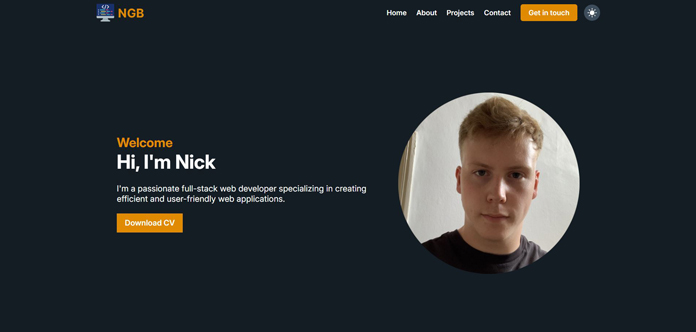
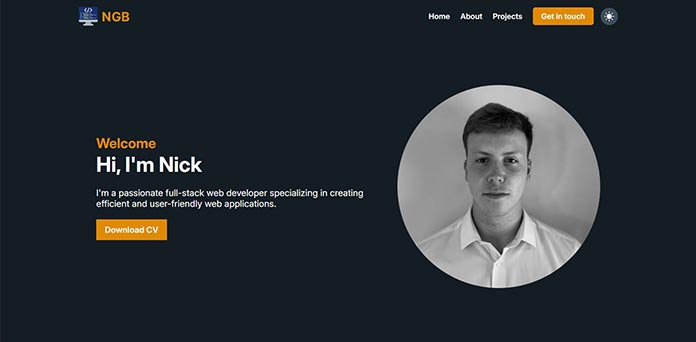
styling updates

diff --git a/client/src/pages/Project.jsx b/client/src/pages/Project.jsx
@@ -6,12 +6,17 @@ import { IoMdArrowRoundBack } from "react-icons/io";
 import { FaCode } from "react-icons/fa6";
 import { RiComputerLine } from "react-icons/ri";
 import * as detailComponents from "../components/projectDetails/detailComponents";
+import { useEffect } from 'react';
 
 const Project = () => {
   const { name } = useParams();
 
   const project = projectData.find(item => item.slug === name);
   const DetailComponent = detailComponents[project?.featureComponent];
+
+  useEffect(() => {
+    window.scrollTo(0, 0)
+  }, []);
 
   if (!project) {
     return <PageNotFound />;
@@ -97,6 +102,7 @@ const ProjectStyles = styled.div`
     gap: 1rem;
     align-items: center;
     margin-bottom: 1.5rem;
+    flex-wrap: wrap;
   }
 
   .tech-stack .tech {
@@ -139,6 +145,29 @@ const ProjectStyles = styled.div`
   .project-details img {
     margin-bottom: 1rem;
     border: 1px solid #ccc;
+  }
+
+  @media only screen and (max-width: 992px) {
+    h1.title {
+      font-size: 2rem;
+    }
+    h2 {
+      font-size: 1.2rem;
+    }
+    .description {
+      font-size: 0.9rem;
+    }
+    .tech-stack .tech {
+      font-size: 0.9rem;
+      padding: 6px 12px;
+    }
+    .links a {
+      font-size: 0.9rem;
+      padding: 6px 10px;
+    }
+    .links .buttons {
+      gap: 0.5rem;
+    }
   }
 `;
 

diff --git a/client/src/components/projectDetails/QrGeneratorDetails.jsx b/client/src/components/projectDetails/QrGeneratorDetails.jsx
@@ -2,7 +2,7 @@ const IMAGE_PATH = "../images/projects/details/qr-generator";
 
 const WashtecDetails = () => {
   return (
-    <div class="project-details">
+    <div className="project-details">
       <h2 className="title">Generating a QR Code</h2>
       <p className="description">simple, user-friendly QR code generator built to convert any URL into a downloadable QR code image. Users can input a URL and specify the desired pixel size for the image. Upon submission, a QR code is dynamically generated, displayed as a live preview, and available for download in image format.</p>
       <img src={`${IMAGE_PATH}/generated-qr.jpg`} alt="Washtec landing page" />

diff --git a/client/src/components/Welcome.jsx b/client/src/components/Welcome.jsx
@@ -31,7 +31,7 @@ const WelcomeStyles = styled.section`
     max-width: 650px;
   }
   .welcome-img {
-    max-width: 450px;
+    max-width: 470px;
     img {
       width: 100%;
     }
@@ -91,6 +91,21 @@ const WelcomeStyles = styled.section`
     }
     .cv-btn {
       font-size: 1.1rem;
+    }
+  }
+  @media only screen and (max-width: 500px) {
+    .welcome-img {
+      max-width: 360px;
+    }
+    .main-title {
+      font-size: 2rem;
+    }
+    .intro {
+      font-size: 0.9rem;
+    }
+    .cv-btn {
+      font-size: 0.9rem;
+      padding: 10px 16px;
     }
   }
 `;

diff --git a/client/src/components/projectDetails/WashtecDetails.jsx b/client/src/components/projectDetails/WashtecDetails.jsx
@@ -2,7 +2,7 @@ const IMAGE_PATH = "../images/projects/details/washtec";
 
 const WashtecDetails = () => {
   return (
-    <div class="project-details">
+    <div className="project-details">
       <h2 className="title">Landing Page</h2>
       <p className="description"></p>
       <img src={`${IMAGE_PATH}/landing.jpg`} alt="Washtec landing page" />

diff --git a/client/src/components/projectDetails/JokesterDetails.jsx b/client/src/components/projectDetails/JokesterDetails.jsx
@@ -2,7 +2,7 @@ const IMAGE_PATH = "../images/projects/details/jokester";
 
 const PlfaDetails = () => {
   return (
-    <div class="project-details">
+    <div className="project-details">
       <h2 className="title">Jokester Introduction</h2>
       <p className="description"></p>
       <img src={`${IMAGE_PATH}/landing.jpg`} alt="landing page" />

diff --git a/client/src/components/projectDetails/PlfaDetails.jsx b/client/src/components/projectDetails/PlfaDetails.jsx
@@ -2,7 +2,7 @@ const IMAGE_PATH = "../images/projects/details/plfa";
 
 const PlfaDetails = () => {
   return (
-    <div class="project-details">
+    <div className="project-details">
       <h2 className="title">Landing Page</h2>
       <p className="description"></p>
       <img src={`${IMAGE_PATH}/landing-1.jpg`} alt="landing page section 1" />
